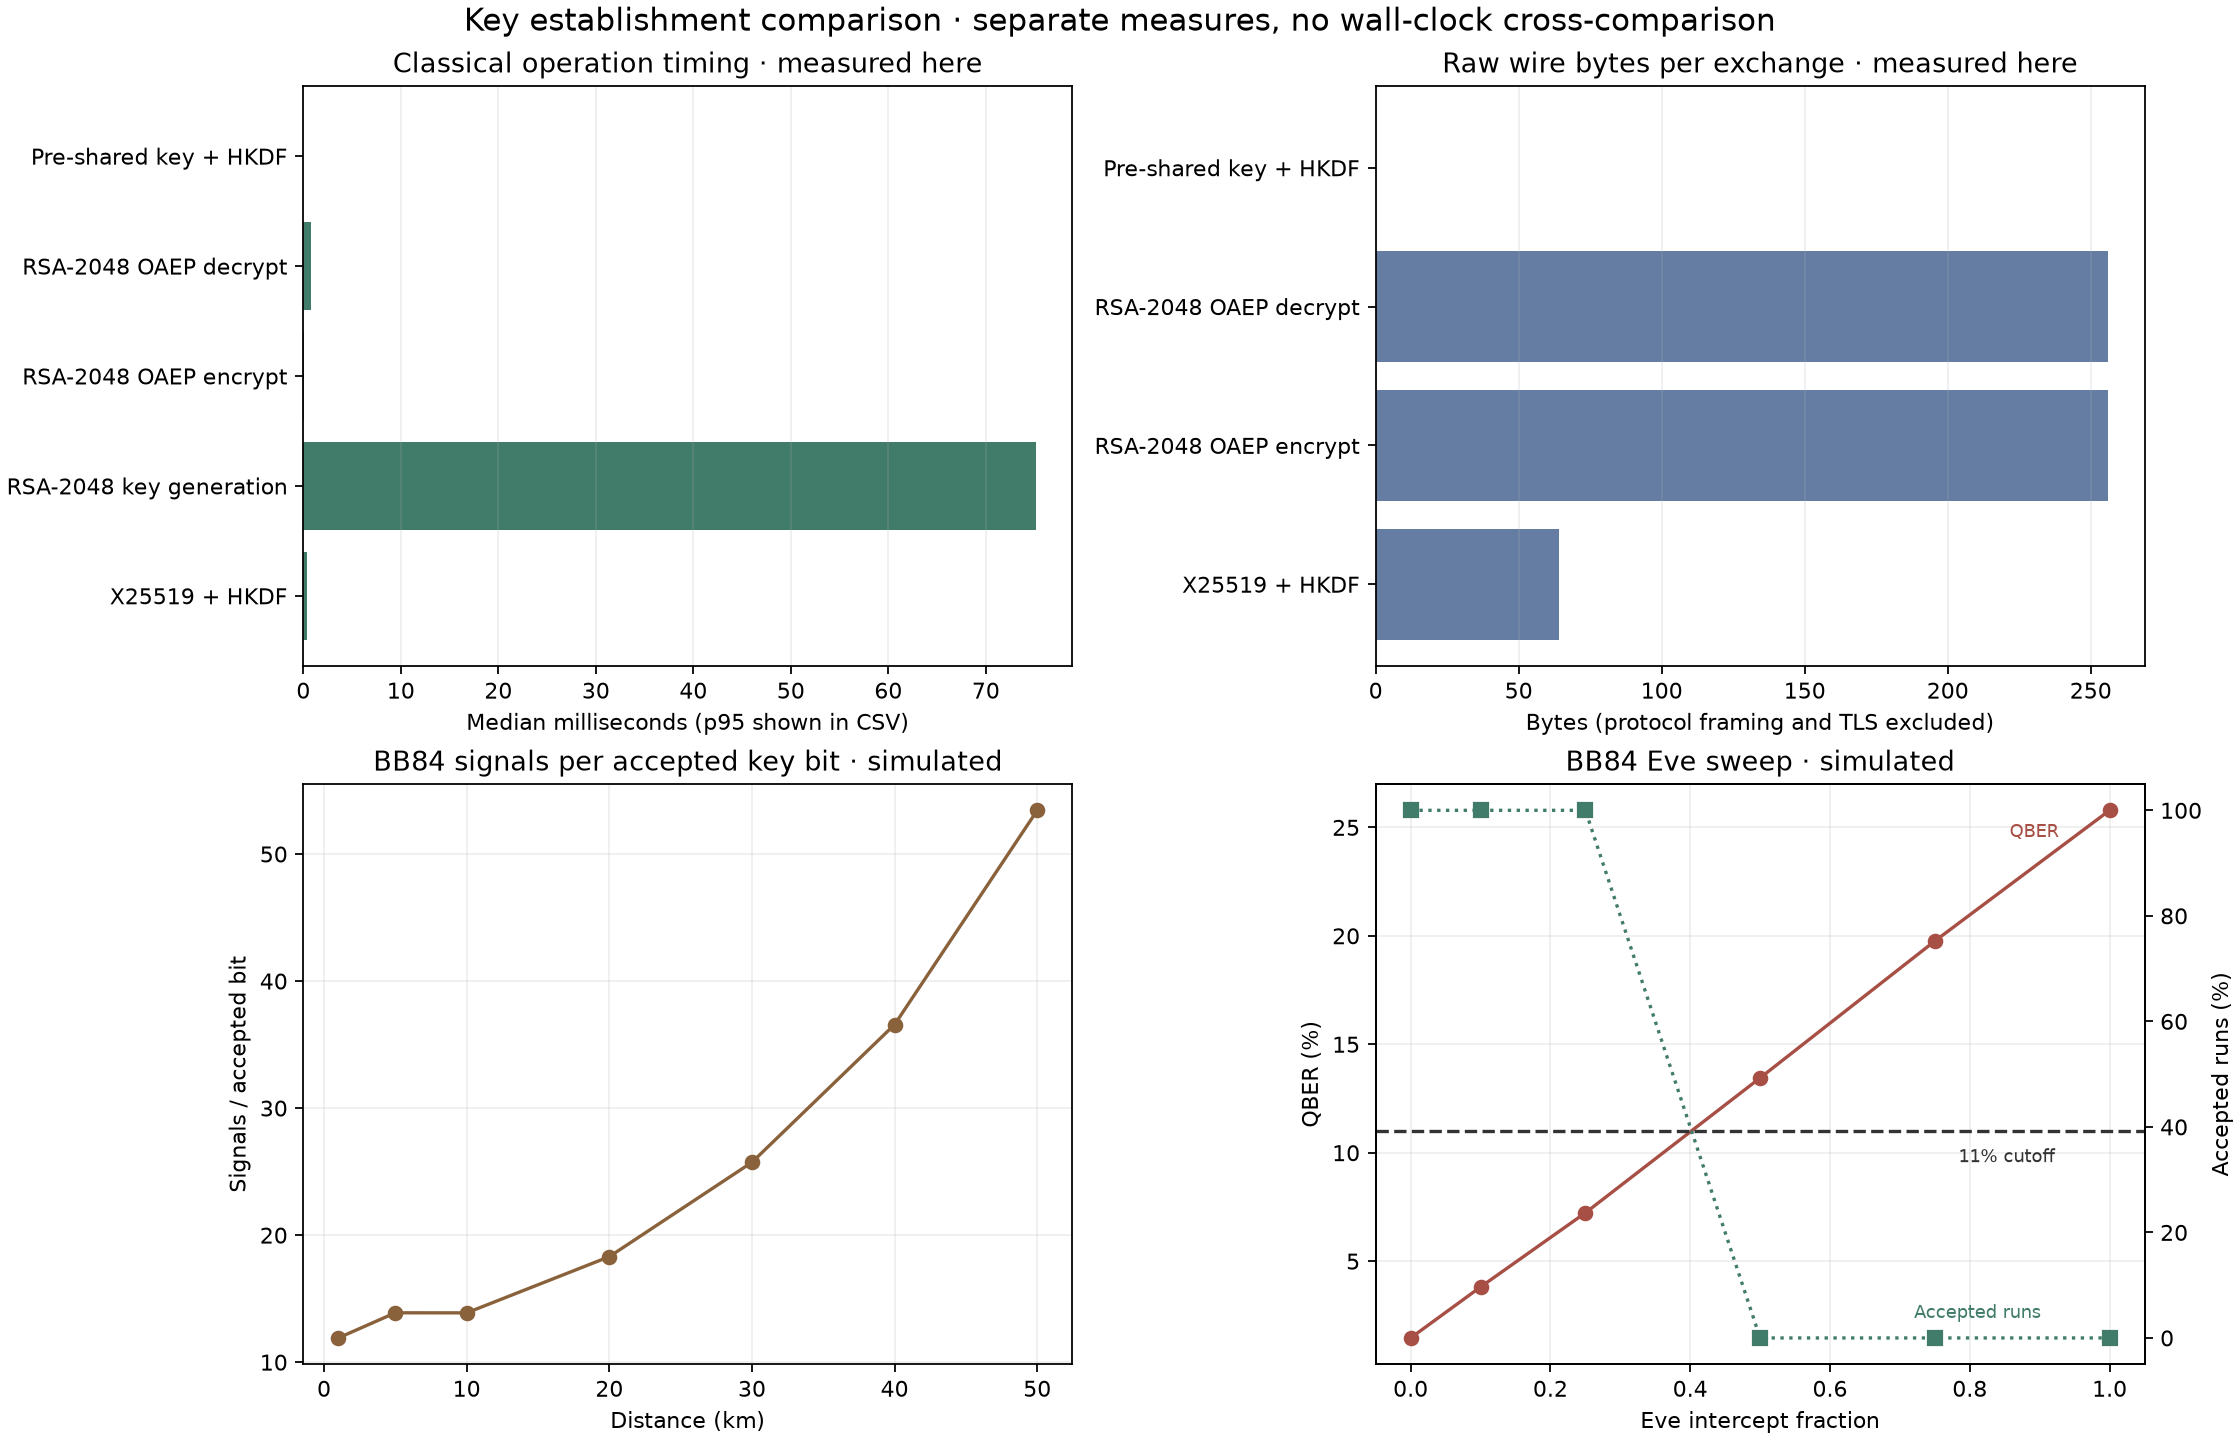
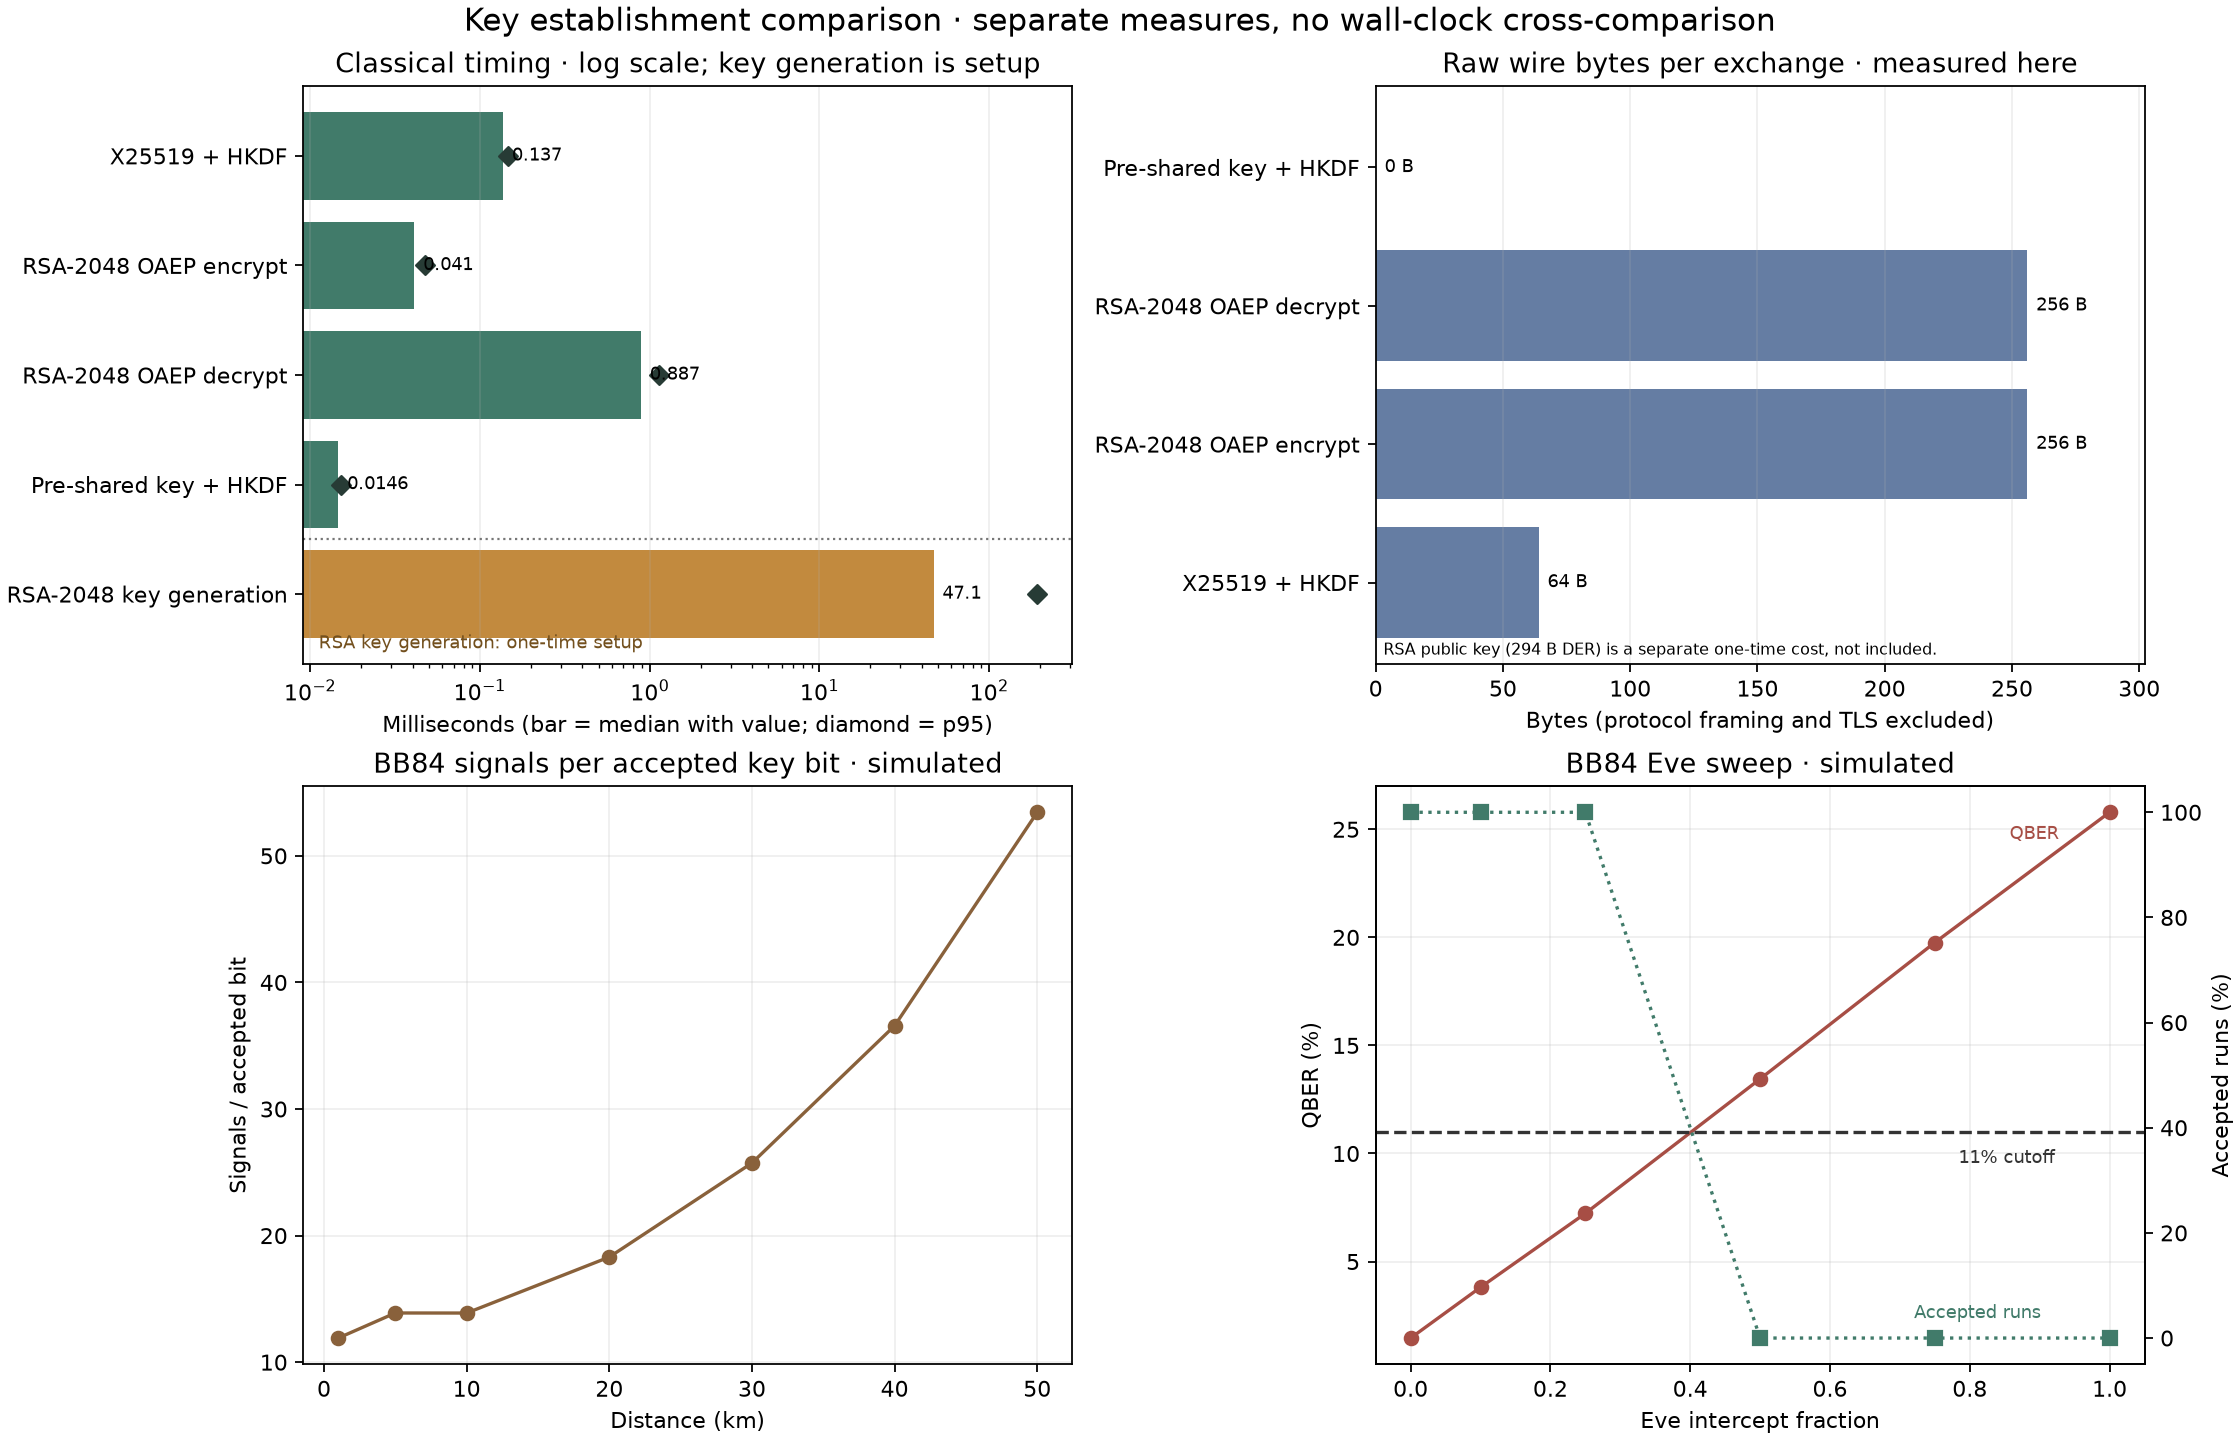
Record comparison benchmark provenance

diff --git a/experiments/compare_key_establishment.py b/experiments/compare_key_establishment.py
@@ -5,11 +5,16 @@ from __future__ import annotations
 import argparse
 import csv
 import importlib
+import os
+import platform
 import statistics
+import sys
 import time
+from datetime import datetime, timezone
 from pathlib import Path
 from typing import Any, Callable
 
+import cryptography
 from cryptography.hazmat.primitives import hashes, serialization
 from cryptography.hazmat.primitives.asymmetric import padding, rsa, x25519
 from cryptography.hazmat.primitives.asymmetric.ed25519 import Ed25519PrivateKey
@@ -22,7 +27,9 @@ CSV_FIELDS = [
     "median_ms", "p95_ms", "bytes_on_wire", "public_key_bytes",
     "ciphertext_bytes", "signals_per_accepted_key_bit", "qber",
     "acceptance_rate", "alice_matches_bob", "alice_matches_eve",
-    "bob_matches_eve", "signature_verification", "handshake_result", "note",
+    "bob_matches_eve", "signature_verification", "handshake_result",
+    "platform", "python_version", "cryptography_version", "cpu_count",
+    "repetitions", "generated_utc", "note",
 ]
 RSA_KEYGEN_REPETITIONS = 100
 RSA_BITS = 2048
@@ -387,6 +394,16 @@ def run_comparison(repetitions: int, result_dir: Path, output_dir: Path) -> tupl
     rows.extend(_mlkem_rows(repetitions))
     rows.extend(_bb84_rows(summary))
     rows.extend(_mitm_rows())
+    provenance = {
+        "platform": platform.platform(),
+        "python_version": sys.version.split()[0],
+        "cryptography_version": cryptography.__version__,
+        "cpu_count": os.cpu_count(),
+        "repetitions": repetitions,
+        "generated_utc": datetime.now(timezone.utc).isoformat(timespec="seconds").replace("+00:00", "Z"),
+    }
+    for row in rows:
+        row.update(provenance)
     output_dir.mkdir(parents=True, exist_ok=True)
     csv_path = output_dir / "compare_key_establishment.csv"
     png_path = output_dir / "compare_key_establishment.png"

diff --git a/tests/test_compare_key_establishment.py b/tests/test_compare_key_establishment.py
@@ -29,6 +29,11 @@ class CompareKeyEstablishmentTests(unittest.TestCase):
             signed = mitm_rows["Ed25519-signed X25519 MITM"]
             self.assertEqual(signed["handshake_result"], "aborted")
             self.assertIn("FAILED", signed["signature_verification"])
+            for field in ("platform", "python_version", "cryptography_version",
+                          "cpu_count", "repetitions", "generated_utc"):
+                self.assertTrue(unauthenticated[field], field)
+            self.assertEqual(unauthenticated["repetitions"], "2")
+            self.assertTrue(unauthenticated["generated_utc"].endswith("Z"))
             self.assertGreater(png_path.stat().st_size, 0)
 
 

diff --git a/docs/COMPARISON.md b/docs/COMPARISON.md
@@ -33,12 +33,14 @@ Classical operation results (per operation unless noted):
 
 | Method | Repetitions | Median (ms) | p95 (ms) | Bytes on wire | Public key (bytes) | Ciphertext (bytes) |
 |---|---:|---:|---:|---:|---:|---:|
-| X25519 + HKDF, both sides | 1,000 | 0.326 | 0.445 | 64 | 32 per side | — |
-| RSA-2048 key generation | 100 | 75.103 | 186.435 | 0 | — | — |
-| RSA-2048 OAEP encrypt | 1,000 | 0.035 | 0.037 | 256 | 294 (DER SPKI) | 256 |
-| RSA-2048 OAEP decrypt | 1,000 | 0.772 | 1.926 | 256 | 294 (DER SPKI) | 256 |
-| Pre-shared key + HKDF, both sides | 1,000 | 0.011 | 0.012 | 0 | — | — |
+| X25519 + HKDF, both sides | 1,000 | 0.137 | 0.145 | 64 | 32 per side | — |
+| RSA-2048 key generation | 100 | 47.075 | 192.438 | 0 | — | — |
+| RSA-2048 OAEP encrypt | 1,000 | 0.041 | 0.047 | 256 | 294 (DER SPKI) | 256 |
+| RSA-2048 OAEP decrypt | 1,000 | 0.887 | 1.140 | 256 | 294 (DER SPKI) | 256 |
+| Pre-shared key + HKDF, both sides | 1,000 | 0.015 | 0.015 | 0 | — | — |
 | ML-KEM | Not measured here | — | — | — | — | — |
+
+Provenance for these measured results: **platform** Windows-11-10.0.26200-SP0; **Python** 3.12.4; **cryptography** 47.0.0; **CPU count** 20; **repetitions** 1,000 for operations and 100 for RSA key generation; **UTC timestamp** 2026-10-24T13:40:35Z. The CSV repeats these metadata fields on every row.
 
 BB84 distance pilot (simulated; **2 runs per point**):
 
